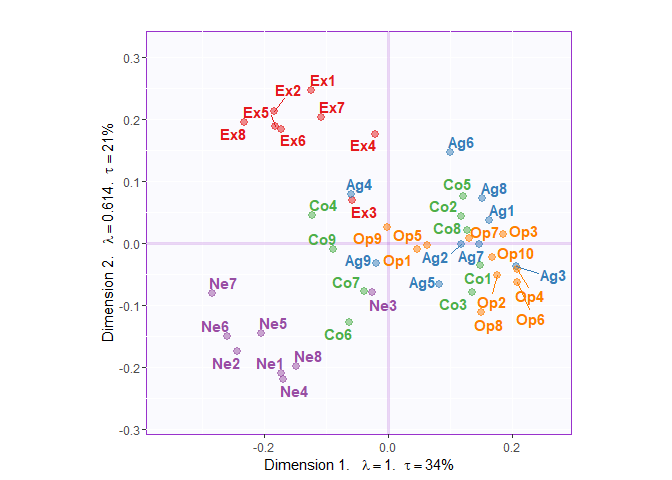
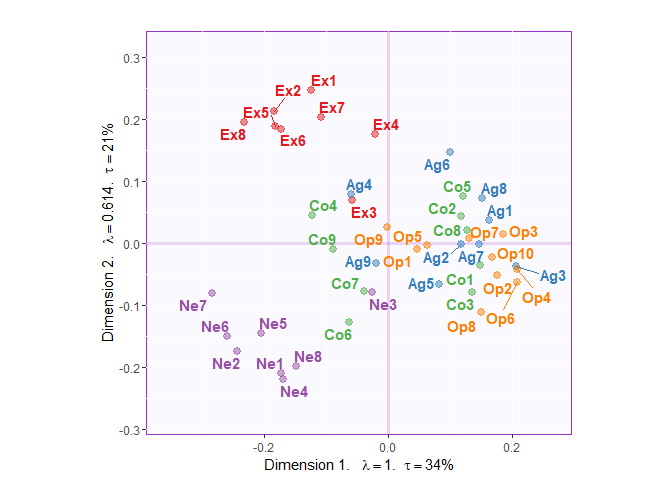
Add normalized sums of squares (RStudio JCY)
* A quick check, not sure if it's correct

diff --git a/demo_STATISnorm4r.md b/demo_STATISnorm4r.md
@@ -66,6 +66,7 @@ plotting
 group.col <- RColorBrewer::brewer.pal(5,"Set1")[c(rep(x=1,8),rep(x=2,9),rep(x=3,9),rep(x=4,8),rep(x=5,10))]
 group.des <- c(rep("E",8),rep("A",9),rep("C",9),rep("N",8),rep("O",10))
 group.des.nominal <- makeNominalData(as.matrix(group.des))
+group.des.nomnorm <- group.des.nominal/c(rep(8,8),rep(9,9),rep(9,9),rep(8,8),rep(10,10))
 group.des.df <- data.frame(group = factor(group.des),row.names = colnames(X))
 group.des.col <- list(group = c(E = RColorBrewer::brewer.pal(5,"Set1")[1],
                                 A = RColorBrewer::brewer.pal(5,"Set1")[2],
@@ -135,6 +136,18 @@ t(group.des.nominal) %*% end.X %*% group.des.nominal
 ## .O -1.7734340 -0.07830909 -0.3151149 -1.8331780  4.00003598
 ```
 
+With its normalized sums of squares:
+
+``` r
+t(group.des.nomnorm) %*% end.X %*% group.des.nomnorm
+##             .E           .A           .C          .N           .O
+## .E  0.06604322 -0.011142400 -0.012748856 -0.01145565 -0.022167926
+## .A -0.01114240  0.035883800 -0.009714951 -0.01720993 -0.000870101
+## .C -0.01274886 -0.009714951  0.036019864 -0.01246758 -0.003501277
+## .N -0.01145565 -0.017209929 -0.012467576  0.07348625 -0.022914724
+## .O -0.02216793 -0.000870101 -0.003501277 -0.02291472  0.040000360
+```
+
 Plot the heatmap of the original matrix again to compare:
 
 ![](demo_STATISnorm4r_files/figure-gfm/show_cor2-1.png)<!-- -->
@@ -149,6 +162,18 @@ t(group.des.nominal) %*% cor.X %*% group.des.nominal
 ## .C  2.7640617  8.473558 32.498222 -2.865429 15.8910825
 ## .N -6.5715876 -6.437500 -2.865429 21.070764 -7.1412312
 ## .O -0.3906893 15.424437 15.891083 -7.141231 45.2153249
+```
+
+With its normalized sums of squares:
+
+``` r
+t(group.des.nomnorm) %*% cor.X %*% group.des.nomnorm
+##              .E          .A          .C          .N           .O
+## .E  0.444149064  0.02703063  0.03838975 -0.10268106 -0.004883617
+## .A  0.027030632  0.35831607  0.10461182 -0.08940973  0.171382635
+## .C  0.038389746  0.10461182  0.40121262 -0.03979763  0.176567584
+## .N -0.102681056 -0.08940973 -0.03979763  0.32923068 -0.089265390
+## .O -0.004883617  0.17138264  0.17656758 -0.08926539  0.452153249
 ```
 
 ## Try PCA
